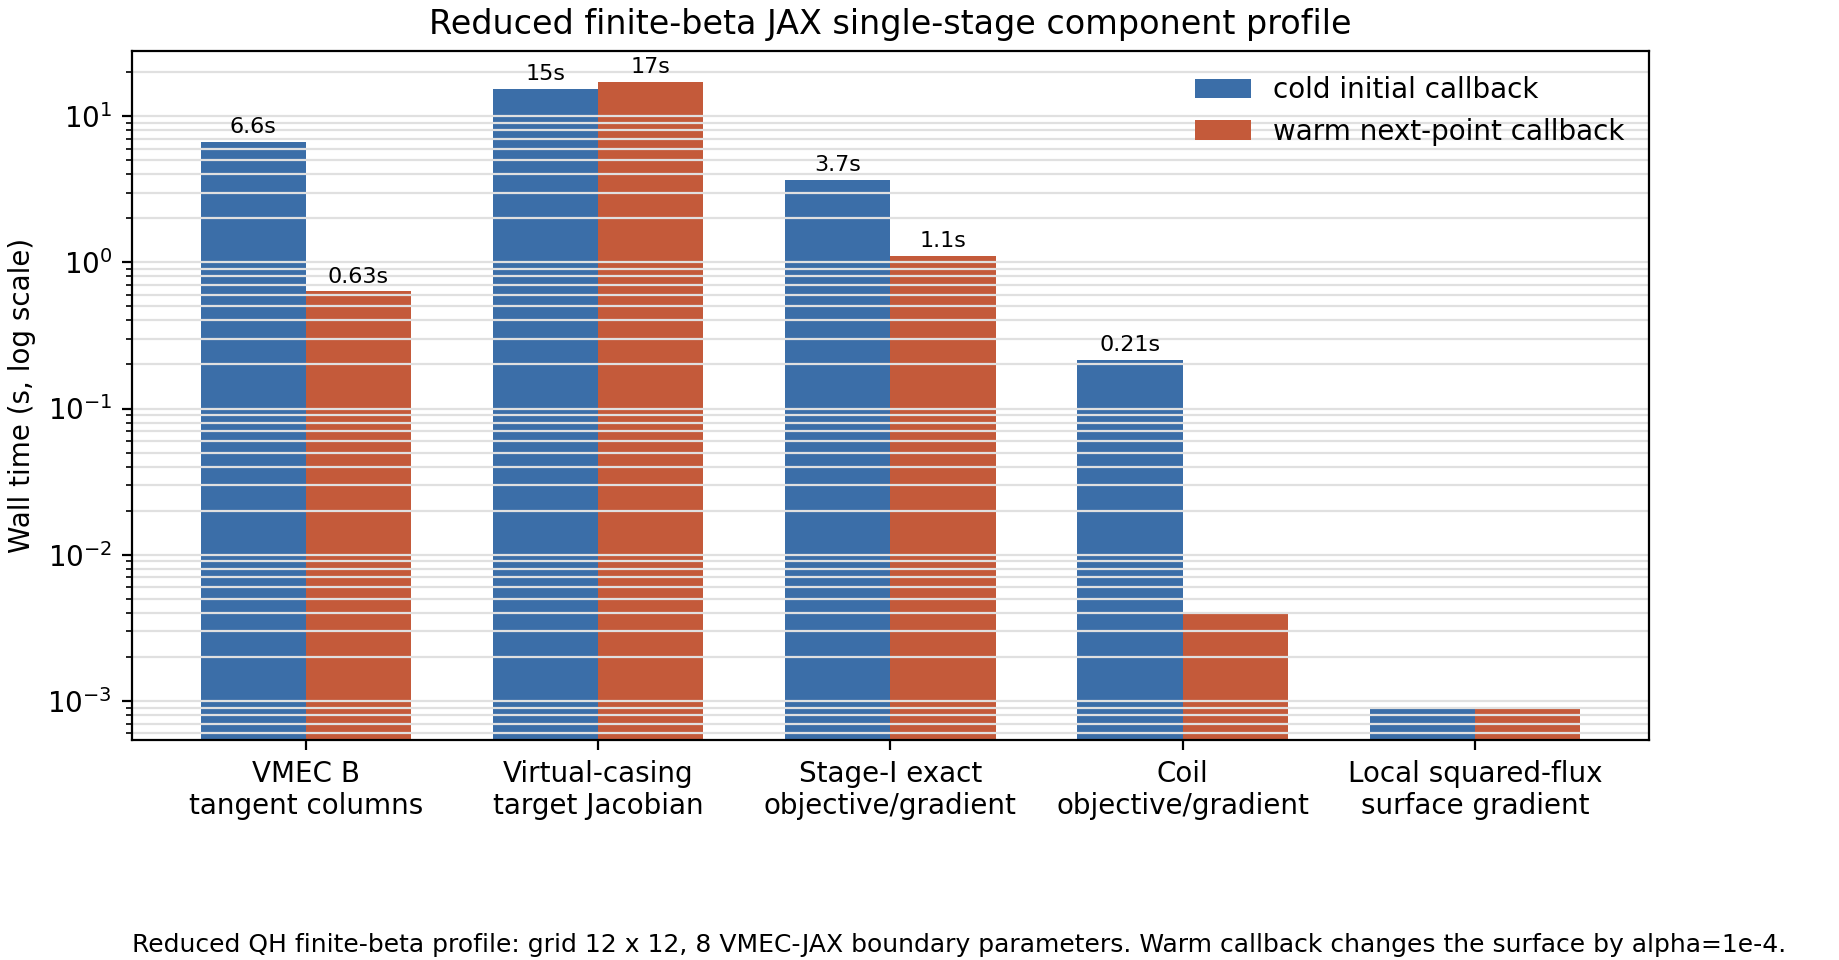
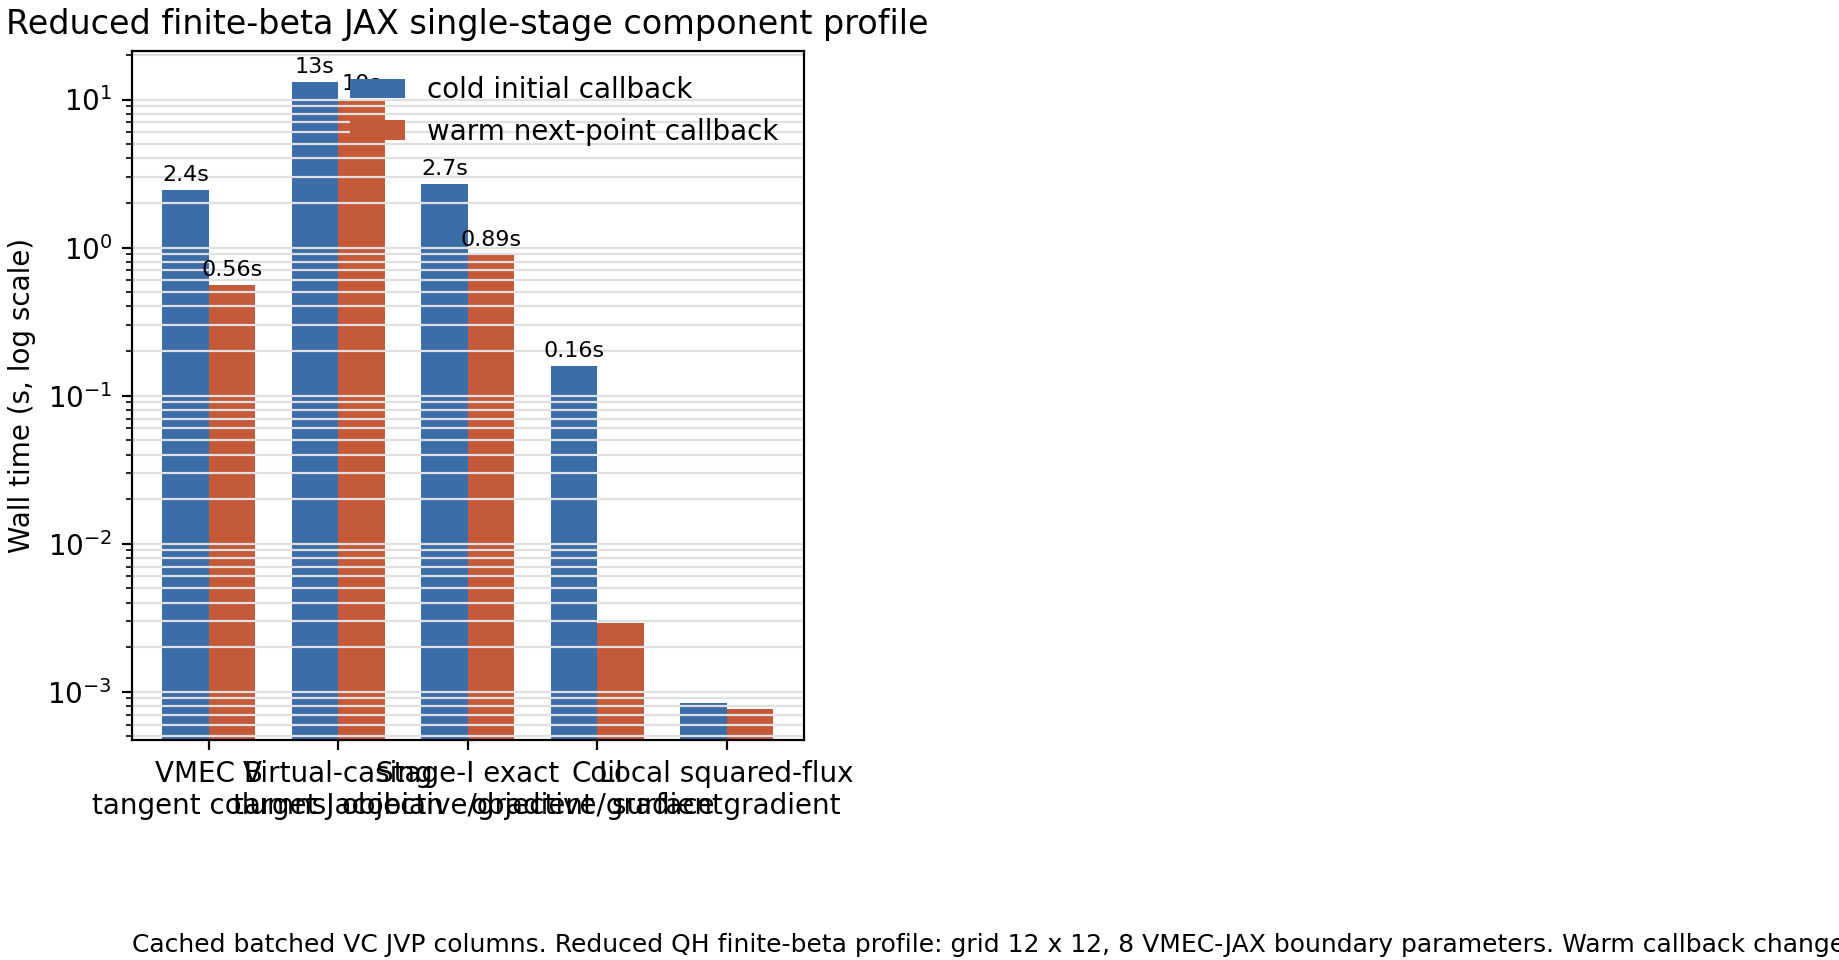
Cache batched virtual casing JAX tangents

diff --git a/src/simsopt/mhd/virtual_casing_jax.py b/src/simsopt/mhd/virtual_casing_jax.py
@@ -41,6 +41,8 @@ __all__ = [
     "local_squared_flux_surface_gradient",
 ]
 
+_B_EXTERNAL_JVP_COLUMNS_CACHE = {}
+
 
 def _soa_from_3d(arr3d):
     return np.transpose(arr3d, (2, 0, 1))
@@ -171,6 +173,53 @@ def _prepare_normal_field_call(
         orient=setup.orient,
     )
     return functional, X, B0, kwargs
+
+
+def _cached_external_B_jvp_columns(functional, jax, kwargs, options, shapes):
+    key = (
+        kwargs["digits"],
+        kwargs["nfp"],
+        kwargs["half_period"],
+        kwargs["surf_nt"],
+        kwargs["surf_np"],
+        kwargs["src_nt"],
+        kwargs["src_np"],
+        kwargs["trg_nt"],
+        kwargs["trg_np"],
+        kwargs["quad_nt"],
+        kwargs["quad_np"],
+        kwargs["patch_dim0"],
+        float(kwargs["orient"]),
+        options["chunk_size"],
+        options["target_chunk_size"],
+        str(options["pou_dtype"]),
+        str(options["patch_dtype"]),
+        options["interp_block_size"],
+        options["remat"],
+        shapes,
+    )
+    fn = _B_EXTERNAL_JVP_COLUMNS_CACHE.get(key)
+    if fn is not None:
+        return fn
+
+    def _impl(x, b0, x_tangents, b0_tangents):
+        return functional.compute_external_B_jvp_columns_functional(
+            x,
+            b0,
+            x_tangents,
+            b0_tangents,
+            chunk_size=options["chunk_size"],
+            target_chunk_size=options["target_chunk_size"],
+            pou_dtype=options["pou_dtype"],
+            patch_dtype=options["patch_dtype"],
+            interp_block_size=options["interp_block_size"],
+            remat=options["remat"],
+            **kwargs,
+        )
+
+    fn = jax.jit(_impl)
+    _B_EXTERNAL_JVP_COLUMNS_CACHE[key] = fn
+    return fn
 
 
 def B_external_normal_from_data(
@@ -424,6 +473,48 @@ def B_external_normal_jacobian_from_surface(
             remat=remat,
             **kwargs,
         )
+
+    if hasattr(functional, "compute_external_B_jvp_columns_functional"):
+        X_tangents = np.transpose(dgamma[:, :, :, columns], (3, 2, 0, 1))
+        B0_tangents = np.transpose(B_total_tangents, (3, 2, 0, 1))
+        options = {
+            "chunk_size": chunk_size,
+            "target_chunk_size": target_chunk_size,
+            "pou_dtype": pou_dtype,
+            "patch_dtype": patch_dtype,
+            "interp_block_size": interp_block_size,
+            "remat": remat,
+        }
+        shapes = (
+            tuple(np.shape(X)),
+            tuple(np.shape(B0)),
+            tuple(np.shape(X_tangents)),
+            tuple(np.shape(B0_tangents)),
+            str(np.asarray(gamma).dtype),
+            str(np.asarray(B_total).dtype),
+        )
+        jvp_columns = _cached_external_B_jvp_columns(
+            functional,
+            jax,
+            kwargs,
+            options,
+            shapes,
+        )
+        Bexternal, dBexternal = jvp_columns(
+            X,
+            B0,
+            jnp.asarray(X_tangents),
+            jnp.asarray(B0_tangents),
+        )
+        Bexternal = _3d_from_soa(np.asarray(Bexternal))
+        dBexternal = np.transpose(np.asarray(dBexternal), (2, 3, 1, 0))
+        Bnormal = np.sum(Bexternal * unit_normal, axis=2)
+        jacobian = np.sum(
+            dBexternal * unit_normal[:, :, :, None]
+            + Bexternal[:, :, :, None] * dunit_normal[:, :, :, columns],
+            axis=2,
+        )
+        return Bnormal, jacobian
 
     Bnormal = None
     jacobian = np.zeros(gamma.shape[:2] + (ncols,))

diff --git a/docs/source/example_jax_mhd.rst b/docs/source/example_jax_mhd.rst
@@ -170,11 +170,11 @@ remaining wall time is concentrated in the exact JAX surface-gradient path:
    :alt: Reduced finite-beta JAX single-stage component wall-time profile.
    :width: 95%
 
-This profile uses a ``12 x 12`` target grid and 8 active VMEC-JAX boundary
-parameters. The warm next-point callback shows that the VMEC boundary-field
-tangent columns and stage-I exact gradient are much cheaper after compilation,
-while the virtual-casing target-Jacobian assembly remains the dominant
-component.
+This profile uses a ``12 x 12`` target grid, 8 active VMEC-JAX boundary
+parameters, and the cached batched virtual-casing JVP-column path. The warm
+next-point callback shows that the VMEC boundary-field tangent columns and
+stage-I exact gradient are much cheaper after compilation, while the
+virtual-casing target-Jacobian assembly remains the dominant component.
 
 Testing
 -------
